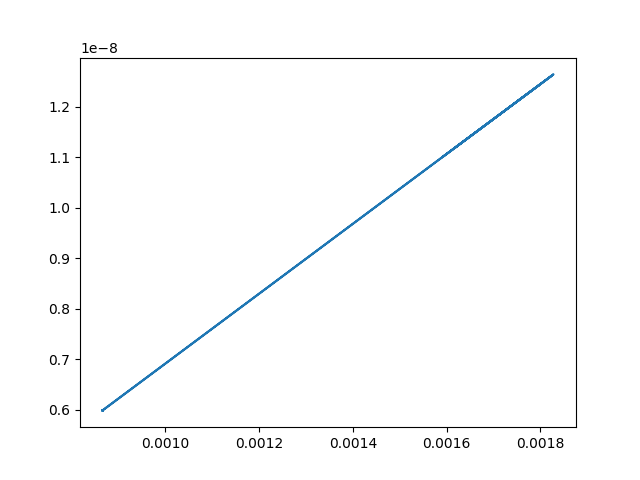
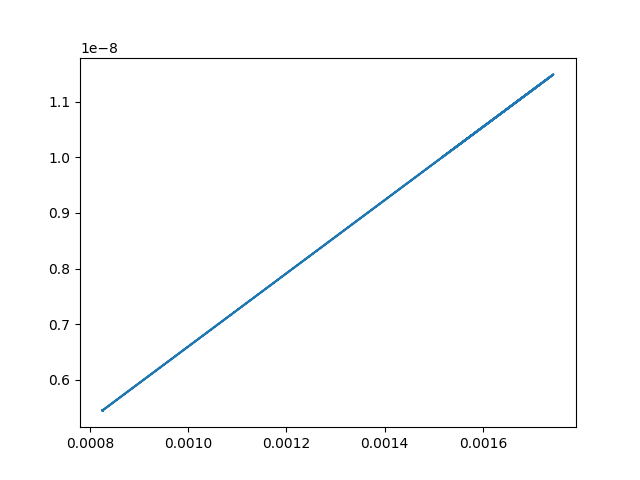
cambiato foto e bytes

diff --git a/graphconf1.py b/graphconf1.py
@@ -27,9 +27,9 @@ for i in range(1,len(joined_size)):
     if time[i]-check_time<=0.25:
         continue
     #print((r/(time[i]-check_time))*(avg_size/80000000),r,time[i])
-    I=(r/(time[i]-check_time))*(avg_size/80000000)
+    I=(r/(time[i]-check_time))*(avg_size/83886080)
     x.append(I)
-    y.append(I*(avg_size/80000000)*(1-I))
+    y.append(I*(avg_size/83886080)*(1-I))
     check_time=time[i]
     r=0
 

diff --git a/graphconf2.py b/graphconf2.py
@@ -21,9 +21,9 @@ for i in range(1,len(joined_size)):
     if time[i]-check_time<=0.25:
         continue
     #print((r/(time[i]-check_time))*(avg_size/80000000),r,time[i])
-    I=(r/(time[i]-check_time))*(avg_size/80000000)
+    I=(r/(time[i]-check_time))*(avg_size/83886080)
     x.append(I)
-    y.append(I*(avg_size/80000000)*(1-I))
+    y.append(I*(avg_size/83886080)*(1-I))
     check_time=time[i]
     r=0
 
